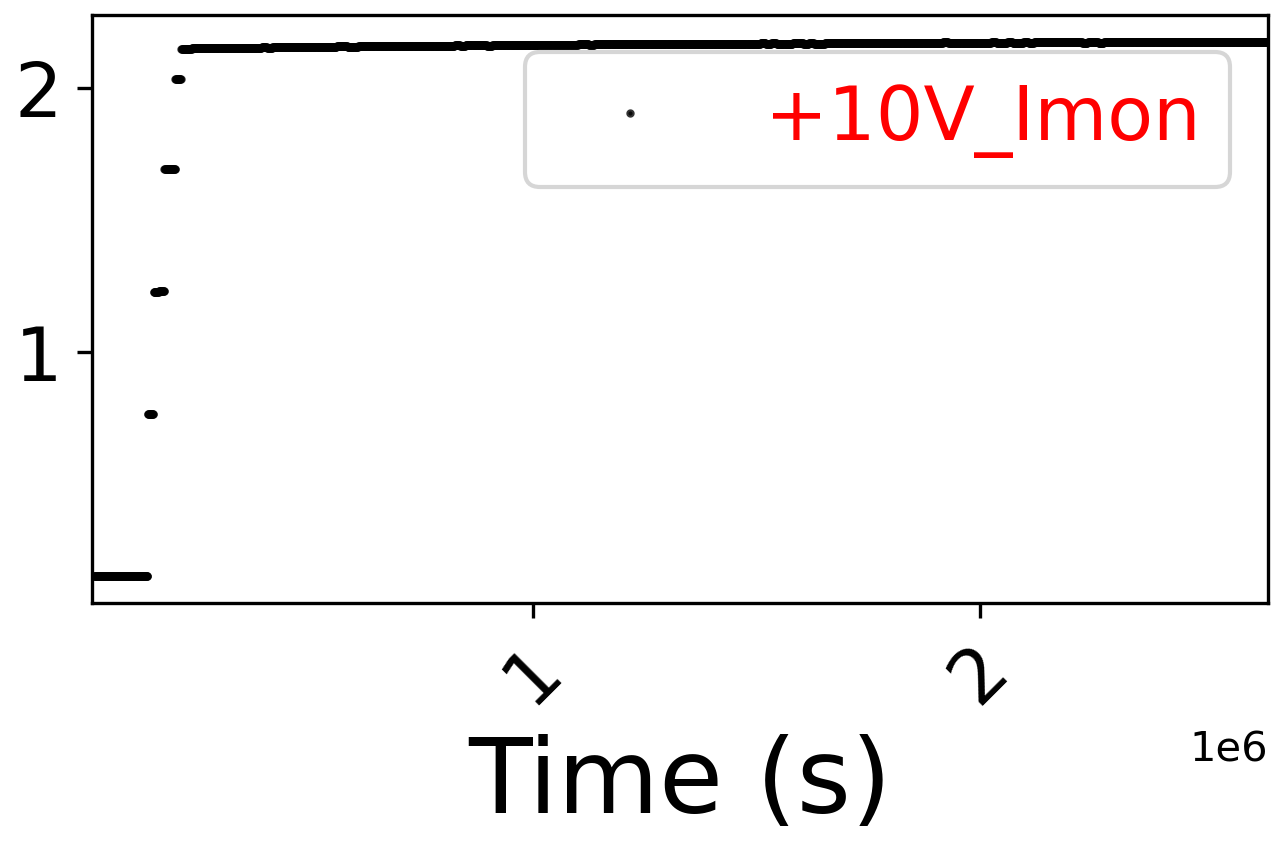
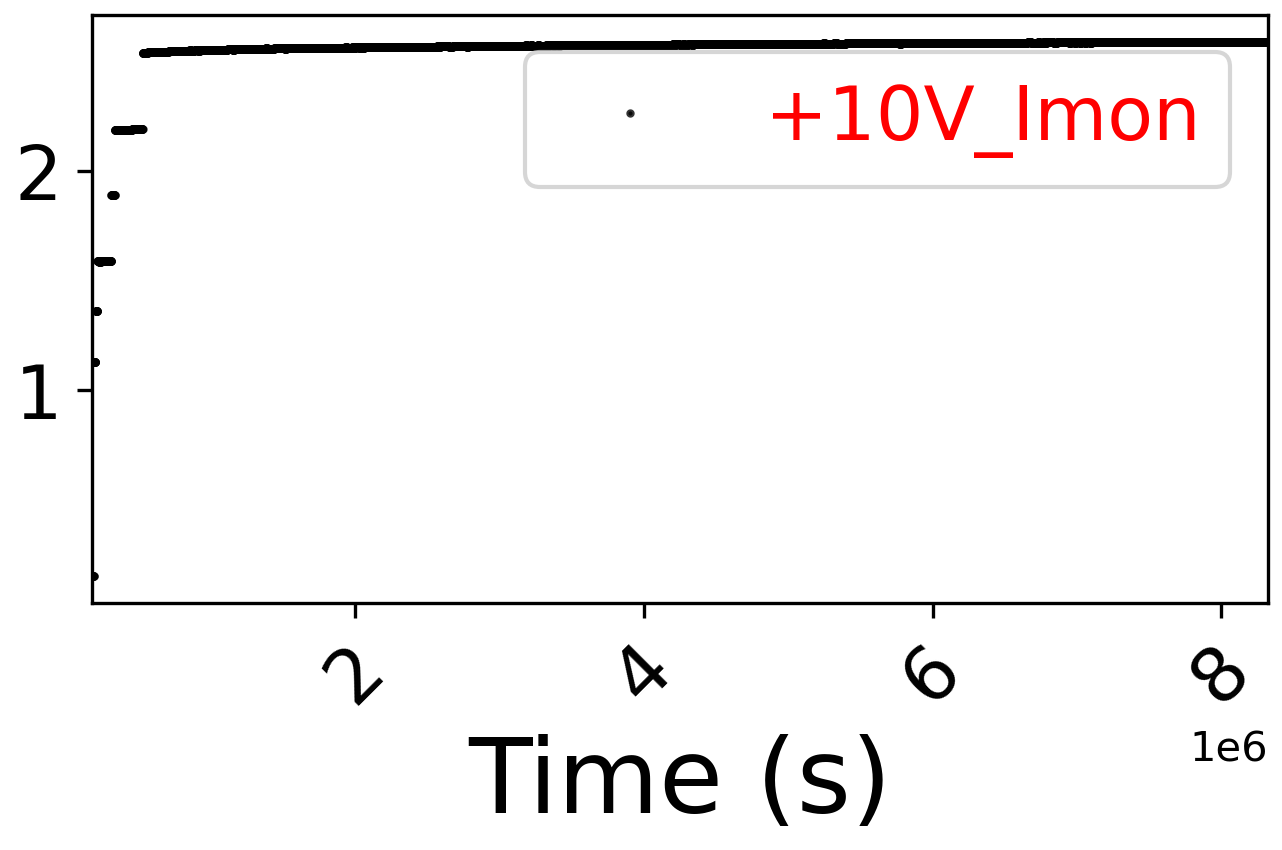
screenshot update

diff --git a/codes/lxi_load_plot_routines.py b/codes/lxi_load_plot_routines.py
@@ -6,6 +6,7 @@ from PIL import Image, ImageTk
 import global_variables
 import lxi_gui_plot_routines as lgpr
 import lxi_read_files as lxrf
+import matplotlib.pyplot as plt
 
 importlib.reload(lgpr)
 importlib.reload(lxrf)
@@ -35,6 +36,11 @@ def load_ts_plots(df_slice_hk=None, plot_key=None, start_time=None, end_time=Non
     -------
     None
     """
+    # Set the fontstyle to Times New Roman
+    font_mpl = {'family': 'serif', 'weight': 'normal', 'size': 10}
+    plt.rc('font', **font_mpl)
+    plt.rc('text', usetex=False)
+
     fig_ts = lgpr.plot_data_class(df_slice_hk=df_slice_hk, plot_key=plot_key, start_time=start_time,
                                   end_time=end_time).ts_plots()
     load_ts = Image.open(
@@ -88,6 +94,11 @@ def load_hist_plots(df_slice_sci=None, start_time=None, end_time=None, bins=None
     -------
     None
     """
+    # Set the fontstyle to Times New Roman
+    font_mpl = {'family': 'serif', 'weight': 'normal', 'size': 10}
+    plt.rc('font', **font_mpl)
+    plt.rc('text', usetex=False)
+
     fig_hist = lgpr.plot_data_class(df_slice_sci=df_slice_sci, start_time=start_time,
                                     end_time=end_time, bins=bins, cmin=cmin, cmax=cmax,
                                     x_min=x_min, x_max=x_max, y_min=y_min, y_max=y_max,
@@ -132,6 +143,11 @@ def load_hist_plots_volt(df_slice_sci=None, start_time=None, end_time=None, chan
     -------
     None
     """
+    # Set the fontstyle to Times New Roman
+    font_mpl = {'family': 'serif', 'weight': 'normal', 'size': 10}
+    plt.rc('font', **font_mpl)
+    plt.rc('text', usetex=False)
+
     fig_hist = lgpr.plot_data_class(
         df_slice_sci=df_slice_sci, start_time=start_time, end_time=end_time, channel1=channel1,
         channel2=channel2).hist_plots_volt()

diff --git a/codes/lxi_gui.py b/codes/lxi_gui.py
@@ -7,6 +7,7 @@ import lxi_load_plot_routines as llpr
 import lxi_gui_plot_routines as lgpr
 import lxi_read_files as lxrf
 import lxi_gui_entry_box as lgeb
+import matplotlib.pyplot as plt
 
 importlib.reload(lgpr)
 importlib.reload(lxrf)
@@ -28,6 +29,7 @@ root.columnconfigure(2, {'minsize': 3}, weight=3)
 root.columnconfigure(3, {'minsize': 3}, weight=3)
 root.columnconfigure(4, {'minsize': 3}, weight=1)
 root.columnconfigure(5, {'minsize': 3}, weight=1)
+
 
 # Set the title of the main window.
 root.title("LEXI GUI")
